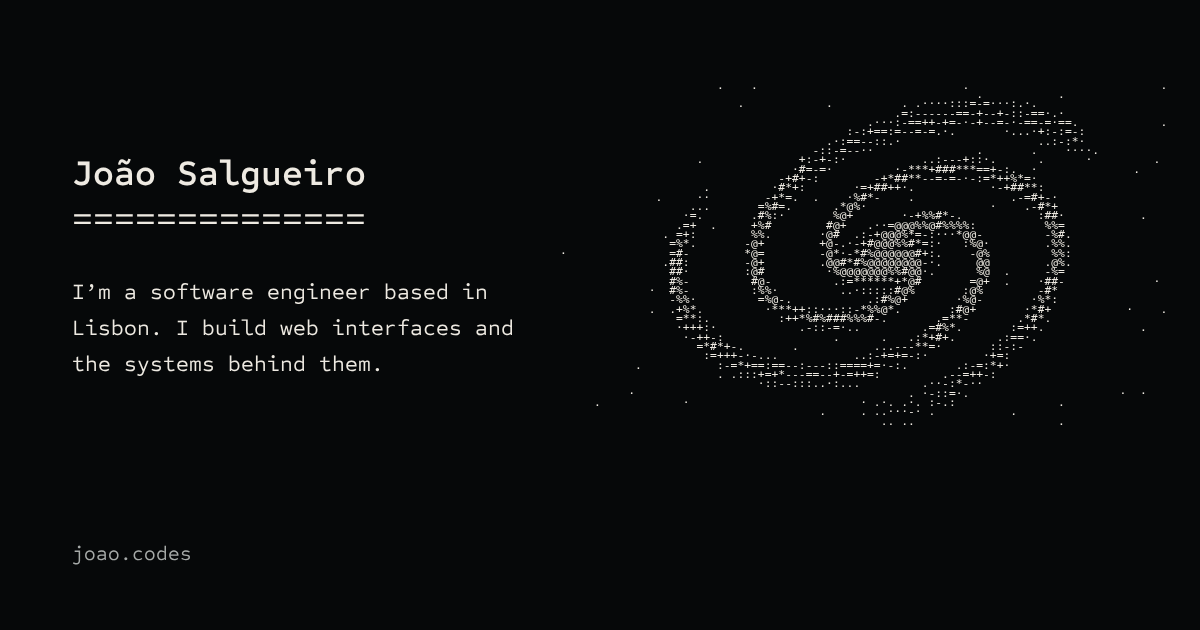
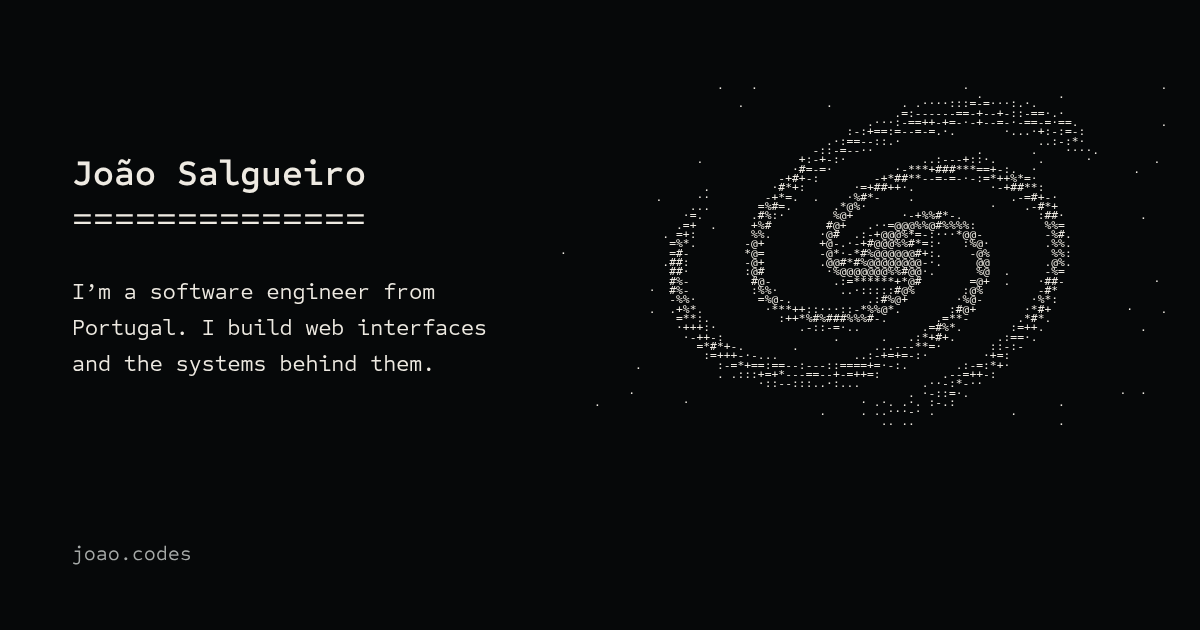
copy: say I'm from Portugal and drop Lisbon (#43)

diff --git a/src/content.js b/src/content.js
@@ -4,7 +4,7 @@
 export const site = {
   title: 'João Salgueiro | Software Engineer',
   description:
-    'João Salgueiro, Lisbon-based Software Engineer focused on React, TypeScript, Node.js, and reusable web interfaces.',
+    'João Salgueiro, Portugal-based Software Engineer focused on React, TypeScript, Node.js, and reusable web interfaces.',
   wordmark: 'joao.codes',
   copyright: '© 2026 João Salgueiro',
 }
@@ -13,7 +13,7 @@ export const person = {
   name: 'João Salgueiro',
   firstName: 'João',
   email: 'hi@joao.codes',
-  location: 'Lisbon, Portugal',
+  location: 'Portugal',
   avatar: {
     src: '/avatar-photo.jpg',
     alt: 'Photo of João Salgueiro',
@@ -51,7 +51,7 @@ export const about = {
 export const contact = {
   id: 'contact',
   kicker: 'Find me online',
-  heading: 'Lisbon-based, remote lover.',
+  heading: 'Portugal-based, remote lover.',
   meta: 'I like working with teams that communicate clearly, leave room for focus, and care about the purpose and meaning behind what they are building. Portuguese and English are both native languages for me.',
   metaEmphasis: ['purpose', 'meaning'],
   email: 'hi@joao.codes',
@@ -86,17 +86,17 @@ export const horizon = {
   role: 'Software engineer',
   intro: 'Building for the web. Learning what comes next.',
   aboutCta: 'A little about me',
-  location: 'Based in Lisbon. Working everywhere.',
+  location: 'Based in Portugal. Working everywhere.',
   aboutTitle: 'A person behind\nthe pixels.',
   aboutParagraphs: [
-    "I'm João, a full-stack developer in Lisbon. I build web interfaces and the systems behind them, using the tools the work calls for. JavaScript is familiar ground; my current role has taken me into Elixir and Phoenix.",
+    "I'm João, a full-stack developer from Portugal. I build web interfaces and the systems behind them, using the tools the work calls for. JavaScript is familiar ground; my current role has taken me into Elixir and Phoenix.",
     'I like the focus and trust of remote work. Clear communication, thoughtful decisions, and space to do good work matter to me.',
     'Away from the screen, you’ll find me with a book or a cup of tea. Preferably somewhere quiet, close to nature, and a little cold.',
   ],
   portraitCaption: 'João, away from the keyboard.',
   contactTitle: 'Have something\nin mind?',
   contactIntro: 'I’m always happy to hear about thoughtful projects and the people behind them.',
-  footerNote: 'Built with care, in Lisbon.',
+  footerNote: 'Built with care, in Portugal.',
   stack: ['React', 'TypeScript', 'Node.js', 'Elixir', 'Phoenix'],
   experienceTitle: 'Experience across stacks.',
   experienceIntro: 'The product shapes the toolkit. Select a role to see what I worked on and the technologies I used.',

diff --git a/index.html b/index.html
@@ -5,7 +5,7 @@
     <link rel="icon" type="image/svg+xml" href="/favicon.svg" />
     <meta
       name="description"
-      content="João Salgueiro is a software engineer working remotely from Lisbon, Portugal, building web interfaces and the systems behind them."
+      content="João Salgueiro is a software engineer working remotely from Portugal, building web interfaces and the systems behind them."
     />
     <meta name="viewport" content="width=device-width, initial-scale=1.0" />
     <title>João Salgueiro | Software Engineer</title>
@@ -15,11 +15,11 @@
     <meta property="og:type" content="website" />
     <meta property="og:url" content="https://www.joao.codes/" />
     <meta property="og:title" content="João Salgueiro | Software Engineer" />
-    <meta property="og:description" content="I’m a software engineer working remotely from Lisbon, Portugal. I build web interfaces and the systems behind them." />
+    <meta property="og:description" content="I’m a software engineer working remotely from Portugal. I build web interfaces and the systems behind them." />
     <meta property="og:image" content="https://www.joao.codes/social-card.png" />
     <meta property="og:image:width" content="1200" />
     <meta property="og:image:height" content="630" />
-    <meta property="og:image:alt" content="João Salgueiro, software engineer based in Lisbon, beside a spiral galaxy drawn in text characters." />
+    <meta property="og:image:alt" content="João Salgueiro, software engineer from Portugal, beside a spiral galaxy drawn in text characters." />
     <meta name="twitter:card" content="summary_large_image" />
   </head>
   <body>

diff --git a/src/designs/plaintext/plaintext-copy.js b/src/designs/plaintext/plaintext-copy.js
@@ -7,7 +7,7 @@ export const plaintextCopy = {
   toDark: 'Switch to dark',
 
   intro: [
-    'I’m a software engineer from Lisbon, Portugal. I build web interfaces and the systems behind them, mostly with React, TypeScript and Node.js, and lately with Elixir and Phoenix.',
+    'I’m a software engineer from Portugal. I build web interfaces and the systems behind them, mostly with React, TypeScript and Node.js, and lately with Elixir and Phoenix.',
     'I work remotely, and it’s how I want to keep working.',
   ],
 
